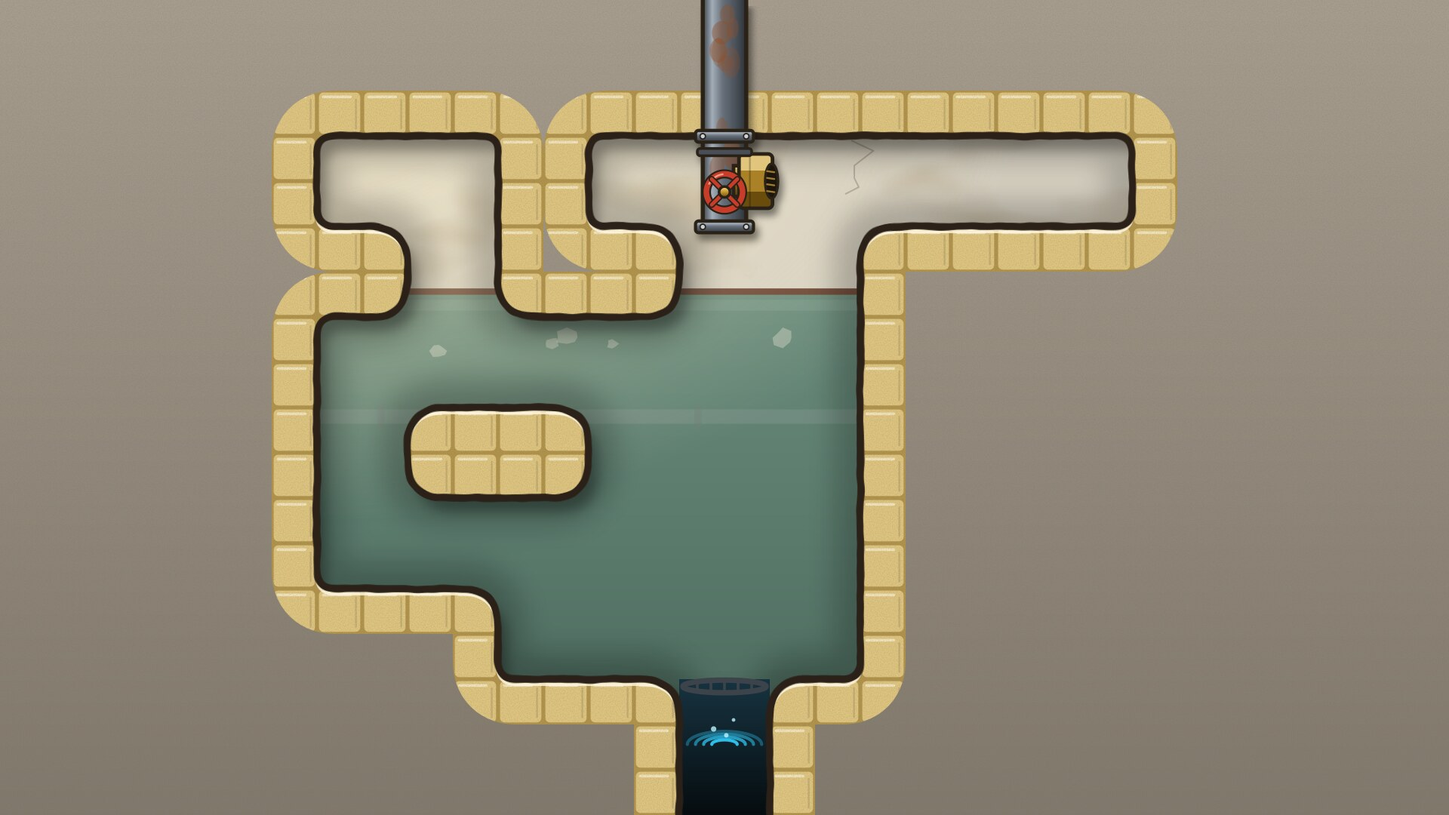
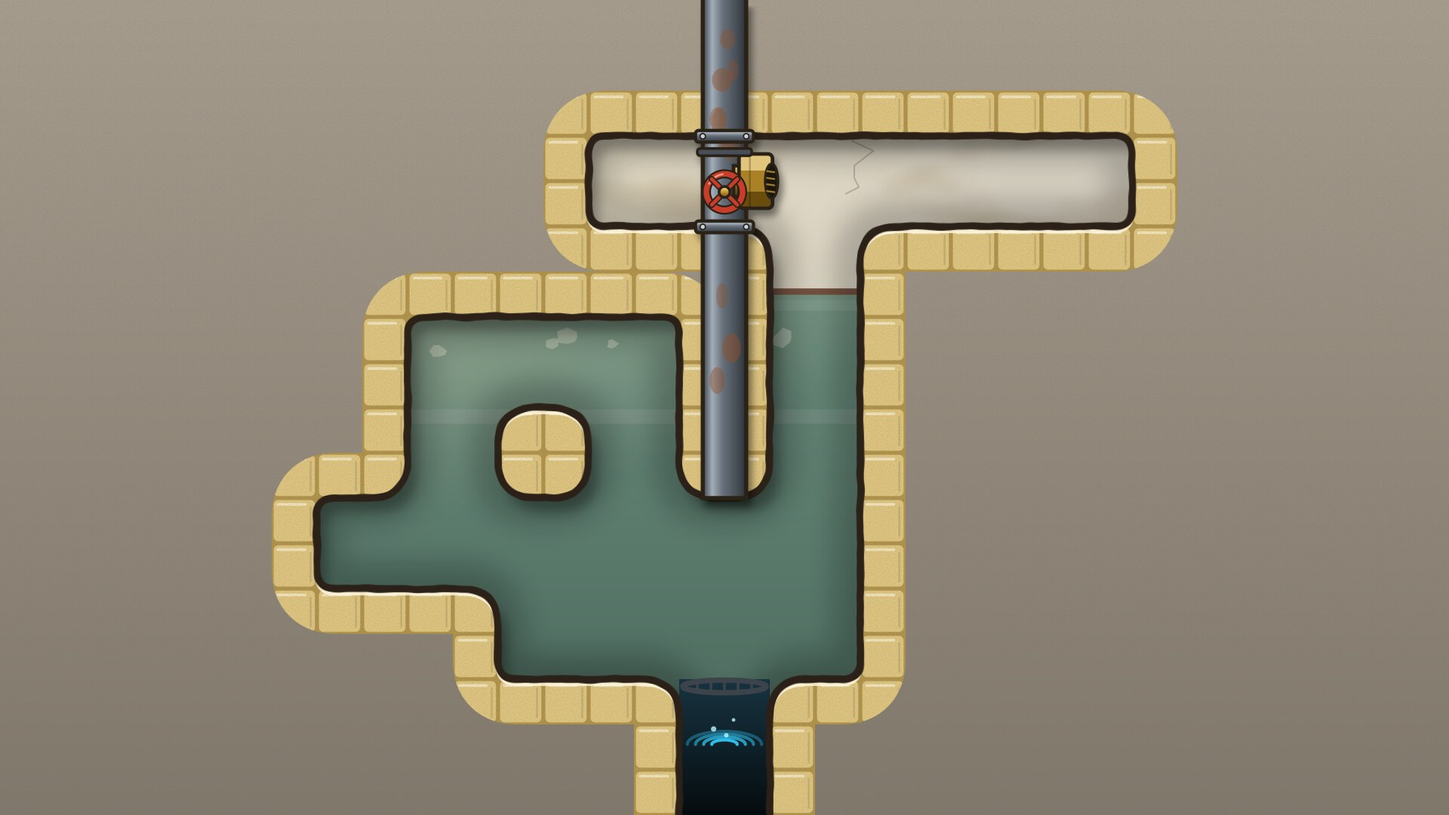
Кв. 3: новое «ага» «мыло — подставка», скрытых 47 %; поле washOk — смытая по замыслу деталь не проигрыш
Claude-Session: https://claude.ai/code/session_01KTF9zcDbthXae1taWntBSd

diff --git a/build/l3c/REPORT.md b/build/l3c/REPORT.md
@@ -1,0 +1,100 @@
+# Кв. 3 «Мыло» — доводка по п. 4 «ДАЛЬШЕ» (28.09.2026)
+
+Решений, кадров и порядка ходов здесь нет — только метрики, «ага» и механизмы ловушек общими словами.
+Принят в levels/03.lua: **r2.lua**. Журнал кандидатов — LOG.md.
+
+Чем проверять: все ворота — `luajit build/l6b/check.lua <файл>` (с полем washOk) или `luajit build/l3c/ev.lua <файл>`
+(разметки скептика — `rule=narrow|d|e|wide`); ловушки у пути — trap.lua; ошибка подсказки №1 — hint1.lua;
+абляции и контроли — abltest.lua; умная обезьяна — fate3.lua.
+
+## Главная находка: метрики кв. 3 были неверными
+В выигрышной конфигурации кв. 3 одно мыло смыто — и в прежней раскладке, и в новой. check.lua, review.lua, fate.lua
+и census.lua считали проигрышем любую смытую деталь, поэтому «умная обезьяна» кв. 3 никогда не смывала мыло и не могла
+выиграть (прежние 0,00 % — фальшивые), а доля скрытых тупиков считалась не по тому правилу. Исправлено полем уровня
+`washOk = true`: смытая деталь сама по себе не проигрыш, проигрыш задаёт def.visibleLoss.
+
+## Итог
+- Сетка 11×8, длина 2–5, напор 0; стояк (6,2) и мойка (10,2) на месте.
+- «Ага»: нижнее мыло — не ступенька, а подставка; смыть его можно только ногами из-под верхнего.
+  Правило за этим: мыло с пола не поднять, значит, верхнее мыло ни разу не должно коснуться пола.
+- При честной разметке (v1) пройдено всё, кроме финальной прогулки 11 (структурно, см. ниже).
+- При самой широкой разметке скептика (v2) скрытых 2 % — свойство механики мыла (см. ниже).
+
+## Метрики (разметка v1, записана в файл уровня)
+v1: проиграно, если где-то лежит заклинившее мыло (ни с одной стороны не толкнуть) или всё оставшееся мыло бесполезно
+на вид (смыто, заклинило или лежит на полу в кармане у слива). Смытое мыло само по себе проигрышем не считается.
+
+| ворота | порог | было (прежняя кв. 3, v1) | стало (r2, v1) |
+|---|---|---|---|
+| ходов | 25–45 | 43 | 32 |
+| состояний | ≤ 10⁵ | 9040 | 4017 |
+| наобум | ≤ 1 % | 0,000 % | 0,000 % |
+| кратчайших / ширина | ≤ 3 | 6 / 3 | 6 / 3 |
+| скрытых | ≥ 40 % | 39 % ✗ | 47 % |
+| умная обезьяна | ≤ 0,2 % | 0,00 % | 0,00 % |
+| глубокая ветка у пути | ≥ 8 | 0 ✗ | 17 (вход — первый ход) |
+| прогулки | ≤ 5–6 | 8, 0, 11, 0, 4, 2, 0, 11 | 4, 5, 0, 4, 2, 0, 11 (финал) ✗ |
+| вынужденных подряд | ≤ 3–4 | 0 | 0 |
+| выигрышных конфигураций | 1 | 1 | 1 |
+| абляция роли | нерешаем | только «без фаянса» | 4 фильтра нерешаемы, 3 контроля решаемы |
+
+Другие разметки: скептик v2 (v1 + «мыло на полке, которое при любом падении окажется на полу у слива или в углу») —
+было 1 %, стало 2 %, глубина 0; узкая («бесполезно всё мыло») — было 58 % / глубина 25, стало 58 % / 17.
+Живых состояний, помеченных проигранными, — 0 при всех разметках. §7 для r2: тупиков 82,6 %, ложных веток 6.
+Автопрохождение r2: WIN, 32 хода.
+
+## Ключевой момент
+Живо ли состояние, зависит только от положения мыла; выигрышная конфигурация одна, в ней одно мыло смыто.
+Нижнее мыло не может стать ступенькой (его не поднять с пола и не провести через слив), зато только на нём верхнее мыло,
+упав с полки, не окажется на полу. Решение игрока: не трогать нижнее мыло, пока на него не ляжет верхнее, а потом
+выбить его ногами в слив. Правдоподобный план делает наоборот — «сначала убрать нижнее мыло» (смыть сразу — это ошибка
+подсказки №1 — или отодвинуть в угол). Старая подсказка про «очерёдность ролей» не описывала решение игрока.
+
+Абляции роли: нерешаемы «подставку не выбить», «мыло на мыло не ляжет», «мост запрещён», «подъёмник запрещён»;
+контроли решаемы за 32 хода: «мыло не толкать влево», «в угол нельзя», «ноги не в карман».
+
+Ошибка подсказки №1 (hint1.lua), «смыть подставку раньше времени»: 72 таких хода в графе, живых после них 0; с пути
+доступна первым ходом; скрытая область 480 состояний, глубина 17, проигрыш заметен не раньше чем через 6 ходов.
+Форма «загнать подставку в угол»: живых 0; при v1 видна сразу.
+Умная обезьяна за 160 ходов: выигрыш 0,0001 %; 78 % вероятности уходит в «смыть подставку раньше времени», 10 % —
+в «столкнуть верхнее мыло не в ту сторону».
+
+Тексты: 1. «Нижнее мыло — не ступенька, а подставка: выбейте его ногами в слив, когда на нём лежит верхнее.»
+2. «Ваш звонок очень важен для нас. Проверяем, на чём у вас держится мыло.» 3. «Мастер выехал. Мыльница у него всегда
+при себе.» Заявка прежняя.
+
+## Молчаливая ловушка первого хода — заменена
+Прежняя: «спасти» нижнее мыло, отодвинув его от слива в угол (правдоподобный ложный план). При узкой разметке —
+602 состояния, глубина 25, проигрыш заметен через 5 ходов; при честной v1 видна сразу, и тогда у пути прежнего уровня
+нет ни одной скрытой ветки. Варианты (скрытая область / глубина / ходов до видимого проигрыша / ширина):
+оставить (b4) — 560 / 18 / 6 при узкой, 0 при v1, ширина 4; убрать (a2–a4, b3, b5) — глубина 0, ширина 3–5;
+смягчить (b6, открыт угол) — 2 выигрышные конфигурации, скрытых 32 %; заменить (r2) — 480 / 17 / 6 и при v1, ширина 3.
+Выбрано «заменить»: первое очевидное действие по-прежнему ведёт в ложную ветку, но теперь это главная ошибка уровня,
+её закрывает подсказка №1, и она не исчезает при честной разметке.
+
+## Что изменено (общими словами)
+Заложен верхний левый закуток (ушла длинная пустая дорога с разворотом); открыт проход между карманом у пола и полкой;
+верхнее мыло сдвинуто на край полки; заложен столбец над карманом (ширина снова 3); столбец под стояком заложен до пола
+(шахта к мойке в одну клетку, при v1 скрытых 42 → 47 %); старт перенесён в левый карман, ноги у нижнего мыла.
+
+## Финальная прогулка 11 — структурная
+Ступенька из одного мыла при длине 5 требует труб на 5 рядов выше пола, иначе к ним добираются без мыла, прикрутившись
+одним концом (проверено). Поэтому подъём и подтягивание второго конца — не меньше 8 ходов без событий, плюс 3 на подход
+к шахте; длина коридора не влияет (t_9, t_10). r2f (стояк и мойка поменяны местами) даёт финал 9, но теряет глубокую
+скрытую ветку (глубина 0). Сделать ≤ 6 можно только событием у самих труб, то есть новым элементом.
+
+## Разметка скептика v2
+v2 гасит все ловушки: у мыла в этой идее каждая мёртвая позиция — «мыло без подставки», и после «ага» она очевидна.
+v2 — не «один взгляд»: нужно проследить падение и знать, что мыло с пола не поднять. Для сравнения: у кв. 6 (r9)
+и кв. 4 (k35) ловушки пережили самую широкую разметку (47 % и 50 %) — у них есть позиционные ловушки сверх «ага».
+
+## Открытые вопросы к Lao
+1. Новое «ага» и тексты.
+2. Финал 11: принять отклонение (записано в NOTES) или менять идею (событие у труб — новый элемент).
+3. Замена ловушки первого хода.
+4. Хватает ли скрытости до «ага» (v1: 47 %, глубина 17), если при v2 ловушек нет?
+
+## Файлы
+r2.lua — принятый; was.lua — «было» с правилом v1; r1.lua — вариант с двухклеточной шахтой (42 %); r2f.lua — трубы
+поменяны местами; остальные — черновики из LOG.md. Инструменты: ev.lua, line.lua, vis.lua, trap.lua, hint1.lua,
+abl3.lua, abltest.lua, fate3.lua, cfg.lua, width.lua, widthshow.lua и livemarked.lua (кадры только в вывод), mk.py, all.sh.

diff --git a/reports/metrics.md b/reports/metrics.md
@@ -8,7 +8,7 @@
 | --- | --- | --- | --- | --- | --- | --- | --- | --- | --- | --- | --- | --- | --- |
 | 1 | «Не той стороной» | 9×7 | 2–4 | 0 | 211 (≤ 20000) | 15 (12–30) | 38.4% (≥ 25%) | 0 (≥ 1) | 1 | 0.76 % | 3 (3) | без крюка: нерешаем ✓; крюк без крепления: нерешаем ✓ | ⚠ мало ложных веток |
 | 2 | «Скалолаз» | 9×10 | 2–4 | 0 | 172 (≤ 50000) | 19 (22–38) | 53.5% (≥ 30%) | 13 (≥ 2) | 1 | 0 % | 1 (1) | крючья замурованы: нерешаем ✓; резьба крючьев: нерешаем ✓ | ⚠ ходы вне коридора |
-| 3 | «Мыло» | 11×8 | 2–5 | 0 | 9040 (≤ 100000) | 43 (25–45) | 80.3% (≥ 35%) | 9 (≥ 2) | 1 | 0 % | 6 (3) | без фаянса: нерешаем ✓ | ✅ |
+| 3 | «Мыло» | 11×8 | 2–5 | 0 | 4017 (≤ 100000) | 32 (25–45) | 82.6% (≥ 35%) | 6 (≥ 2) | 1 | 0 % | 6 (3) | без фаянса: нерешаем ✓; подставку не выбить: нерешаем ✓; мыло на мыло не ляжет: нерешаем ✓; мост запрещён: нерешаем ✓; подъёмник запрещён: нерешаем ✓ | ✅ |
 | 4 | «Резьба» | 9×8 | 2–4 | 0 | 6176 (≤ 300000) | 16 (15–40) | 78.8% (≥ 40%) | 4 (≥ 2) | 1 | 0.03 % | 3 (3) | без муфты: нерешаем ✓; без ниппеля: нерешаем ✓; сборка заранее: нерешаем ✓; по одной нельзя: нерешаем ✓ | ✅ |
 | 5 | «Лишний выход» | 9×7 | 2–4 | 0 | 1682 (≤ 100000) | 15 (12–40) | 41.7% (≥ 35%) | 1 (≥ 1) | 1 | 0.05 % | 1 (1) | без заглушки: нерешаем ✓; тройник заглушён заранее: нерешаем ✓; ступенька запрещена: нерешаем ✓ | ✅ |
 | 6 | «Намертво» | 11×5 | 3–5 | 0 | 30969 (≤ 1000000) | 23 (15–40) | 86.2% (≥ 50%) | 10 (≥ 3) | 1 | 0 % | 2 (2) | без ниппеля: нерешаем ✓; без муфты: нерешаем ✓; пара не держит муфту над сливом: нерешаем ✓; ниппель не переходит муфту поверху: нерешаем ✓ | ✅ |
@@ -16,6 +16,7 @@
 Принятые отклонения (⚠):
 - Кв. 1: ложных веток 0: на 211 состояниях областей ≥ 50 не бывает, ошибки здесь наказываются сразу (слив), а не тихим тупиком.
 - Кв. 2: 19 ходов при коридоре 22–38: перебор 384 вариантов не дал 22+ с сохранением ловушек; решает плейтест.
+- Кв. 3: подставка (28.09, build/l3c/r2): 32 хода; одно мыло по замыслу уходит в слив — проигрыш задаёт def.visibleLoss (washOk); «ага» доказана абляциями «подставку не выбить», «мыло на мыло не ляжет», «мост запрещён», «подъёмник запрещён»; финальный подъём к трубам — 11 ходов без событий (структурно: ступенька в одно мыло при длине 5).
 - Кв. 4: раскладка пересобрана 28.09 (build/l4c, k35): 16 ходов при стартовом коридоре 30–50 — в предложенных 15–40; прогулка 10 → 5, скрытых тупиков 68 % (при самой широкой честной разметке 50 %); «ага» доказана абляциями «сборка заранее» и «по одной нельзя».
 - Кв. 5: минимальная раскладка 9×7: 15 ходов вместо коридора 35–60 — по решению Lao красота важнее длины; идея §6 доказана абляцией «ступенька запрещена».
 - Кв. 6: ядро «муфтой вперёд» 11×5 (второй поиск 28.09, build/l6c): 23 хода в коридоре; «ага» доказана абляциями «пара не держит муфту над сливом» и «ниппель не переходит муфту поверху».

diff --git a/docs/DESIGN.md b/docs/DESIGN.md
@@ -1,6 +1,6 @@
 # Лапидус. Ни капли — дизайн-документ и промпт сборки
 
-Sep 23, 2026 · @Lao · в репозитории с ревизии 18; правка 28.09: ворота качества §7, кв. 6 §6
+Sep 23, 2026 · @Lao · в репозитории с ревизии 18; правка 28.09: ворота качества §7, кв. 3 и 6 §6
 
 ## Как читать
 
@@ -209,7 +209,7 @@ flowchart TD
 | --- | --- | --- | --- | --- |
 | 1 | «Не той стороной» | Все глаголы Лапидуса | Лежит задом наперёд, а развернуться может, только повиснув на чужой резьбе: сначала прикрутить «не тот» конец | 10×7 · 2–4 · 0 |
 | 2 | «Скалолаз» | Глухие отводы | Отводы в шахте — скальные крючья: подъём чередованием головы и ног, и порядок резьб велит начать «не тем» концом | 9×10 · 2–4 · 0 |
-| 3 | «Мыло» | Фаянс | Фаянс толкают только ноги, а ноги нужны у стояка: всё решает очерёдность ролей | 11×8 · 2–5 · 0 |
+| 3 | «Мыло» | Фаянс | Нижнее мыло — не ступенька, а подставка: его выбивают ногами в слив из-под верхнего | 11×8 · 2–5 · 0 |
 | 4 | «Резьба» | Подвижные детали | Собранная заранее труба не пролезает: детали надо ронять в строгом порядке, чтобы они свинтились на лету на своём месте | 11×8 · 2–4 · 0 |
 | 5 | «Лишний выход» | Тройник, заглушка | Заглушка — единственная ступенька наверх: сначала лестница, потом пробка | 12×8 · 2–5 · 0 |
 | 6 | «Намертво» | Свинченная пара — одно тело; карточка «Поднимает, но не носит» | Ниппель — не в колонку, а за спину муфте: через двойной слив они пройдут только парой, муфтой вперёд (порядок деталей на полу — навсегда) | 11×5 · 3–5 · 0 |

diff --git a/HANDOFF.md b/HANDOFF.md
@@ -9,7 +9,10 @@
 > **28.09.2026 — кв. 6 пересобрана:** ядро «муфтой вперёд» (build/l6c/README.md) принято Lao и стоит в levels/06.lua,
 > проходит все ворота. Пункты 1–2 раздела «ДАЛЬШЕ» закрыты (карточка «7 · Поднимает, но не носит» — на экране заявки кв. 6,
 > поле texts.card). П. 3 закрыт: кв. 4 пересобрана (build/l4c/REPORT.md, 16 ходов, прогулка 5, скрытых 68 %).
-> Дальше кв. 3 (идёт), кв. 7 (идёт поиск ядра). Быстрый экспорт арта квартиры: `python3 art/export_lvl.py N`.
+> П. 4 закрыт: кв. 3 доведена (build/l3c/REPORT.md, 32 хода, скрытых 47 %, финальный подъём 11 — структурно).
+> ВНИМАНИЕ: разбор кв. 3 в таблице ниже (26.09) неверен — одно мыло смывается по замыслу, а инструменты считали
+> любую смытую деталь проигрышем; теперь есть поле уровня washOk. Кв. 7 — идёт поиск ядра (build/l7c).
+> Быстрый экспорт арта квартиры: `python3 art/export_lvl.py N`.
 
 ## Как продолжить
 1. `mkdir -p /home/claude/lapidus && cd /home/claude && unzip -q /mnt/user-data/uploads/lapidus_checkpoint_phase6a.zip`

diff --git a/BUILDLOG.md b/BUILDLOG.md
@@ -193,3 +193,8 @@
   скрытых 68 % (50 % при самой широкой честной разметке), обезьяна 0,03 %, глубина 17, наобум 0,034 %, ширина 3;
   абляции «сборка заранее» и «по одной нельзя» нерешаемы. Вывод: прежние 66 % скрытых держались на отсутствии
   видимого проигрыша (честно — 18 %). run_all 1–6, автопрохождение 01–06 WIN, новый фон lvl04.
+- 28.09: кв. 3 доведена (build/l3c/REPORT.md, кандидат r2): новое «ага» «нижнее мыло — не ступенька, а подставка»,
+  32 хода, скрытых 47 % (честная разметка), обезьяна 0,00 %, глубина 17, четыре абляции роли нерешаемы; молчаливая
+  ловушка первого хода заменена ошибкой подсказки №1. Не пройдено: финальный подъём 11 ходов (структурно) и самая
+  широкая разметка скептика (2 %). Найдено: в кв. 3 одно мыло смывается по замыслу, а check/review/fate/census считали
+  любую смытую деталь проигрышем (прежняя «обезьяна 0,00 %» была фальшивой) — поле уровня washOk.

diff --git a/WALKTHROUGH_SPOILERS.md b/WALKTHROUGH_SPOILERS.md
@@ -12,13 +12,12 @@
 1. Н→  2. Н↑  3. Г←  4. Г←  5. Г←  6. Г←  7. Г↑  8. Г←  9. Н←  10. Н↑  
 11. Н↑  12. Н←  13. Г→  14. Г↑  15. Г↑  16. Г→  17. Н→  18. Г→  19. Г→  
 
-## Кв. 3 · «Мыло» — 43 ходов
+## Кв. 3 · «Мыло» — 32 ходов
 
-1. Г→  2. Н↑  3. Н←  4. Н←  5. Н←  6. Н←  7. Н↑  8. Н↑  9. Н→  10. Н→  
-11. Г↑  12. Г↑  13. Г→  14. Г↑  15. Н←  16. Н←  17. Н↓  18. Н↓  19. Н→  20. Н→  
-21. Н↓  22. Н→  23. Н↑  24. Н→  25. Н→  26. Н↓  27. Н←  28. Н←  29. Н←  30. Н↑  
-31. Н→  32. Н→  33. Г→  34. Г↑  35. Г→  36. Г↑  37. Г↑  38. Г↑  39. Г↑  40. Г→  
-41. Г→  42. Н↑  43. Н↑  
+1. Н↑  2. Н←  3. Н↑  4. Н↑  5. Н→  6. Н←  7. Н↓  8. Н↓  9. Н→  10. Н↓  
+11. Н→  12. Н↑  13. Н→  14. Н→  15. Н↓  16. Н←  17. Н←  18. Н←  19. Н↑  20. Н→  
+21. Н→  22. Г→  23. Г↑  24. Г→  25. Г↑  26. Г↑  27. Г↑  28. Г↑  29. Г→  30. Г→  
+31. Н↑  32. Н↑  
 
 ## Кв. 4 · «Резьба» — 16 ходов
 
